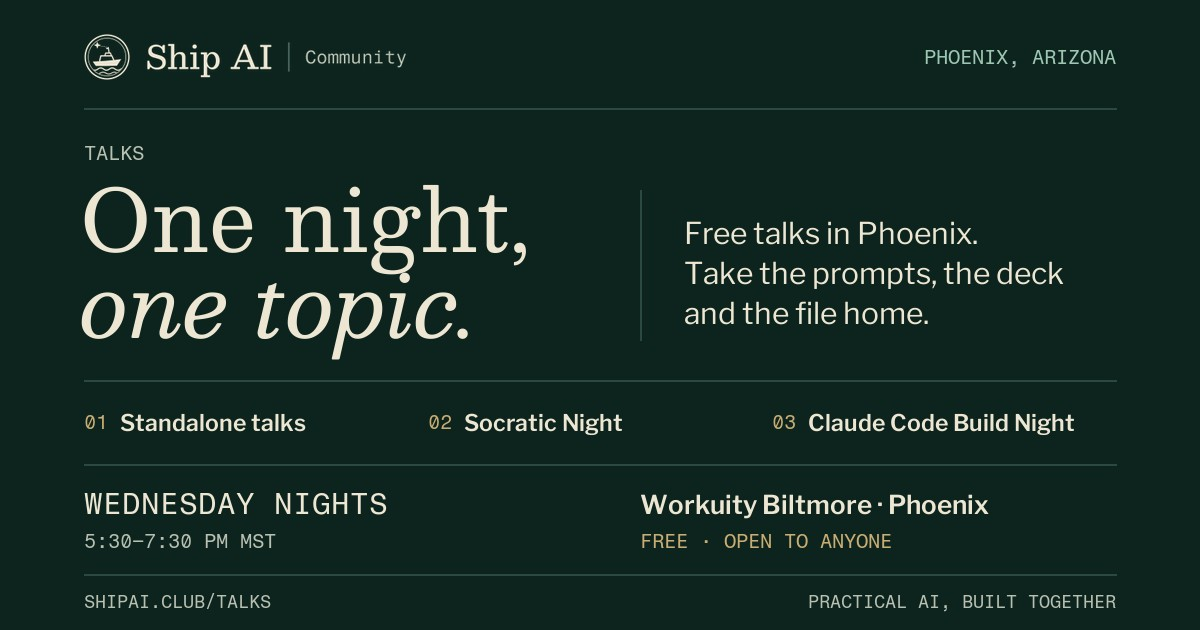
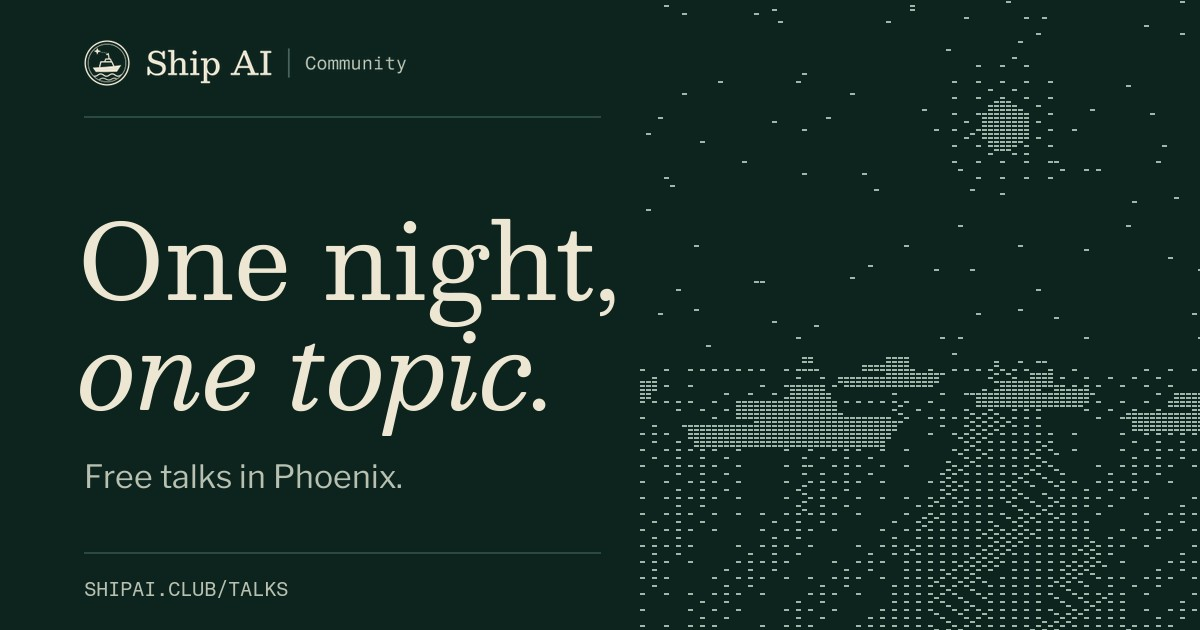
Talks social image: title, one line and the URL, with the harbor dither art on the right

diff --git a/scripts/og/render_talks_og.py b/scripts/og/render_talks_og.py
@@ -10,6 +10,86 @@ MONO = 'fragment-mono-400.ttf'; SERIF = 'besley-400.ttf'; SERIF_I = 'besley-ital
 SANS = 'libre-franklin-400.ttf'; SANS_B = 'libre-franklin-600.ttf'
 W, H, M = 1200, 630, 84
 
+import math
+
+BAYER = [[(v + 0.5) / 16 for v in r] for r in [[0, 8, 2, 10], [12, 4, 14, 6], [3, 11, 1, 9], [15, 7, 13, 5]]]
+ART = '#9DB8AB'
+HULL = [(0, 4), (214, -6), (236, 0), (214, 28), (16, 28)]
+HOUSE = [(56, -2), (62, -24), (158, -24), (176, -4)]
+WHEEL = [(110, -24), (116, -40), (152, -40), (160, -24)]
+
+
+def hsh(x, y):
+    s = math.sin(x * 127.1 + y * 311.7) * 43758.5453
+    return s - math.floor(s)
+
+
+def clamp(v):
+    return 0 if v < 0 else 1 if v > 1 else v
+
+
+def in_poly(x, y, poly):
+    c = False
+    j = len(poly) - 1
+    for i in range(len(poly)):
+        xi, yi = poly[i]; xj, yj = poly[j]
+        if (yi > y) != (yj > y) and x < (xj - xi) * (y - yi) / (yj - yi) + xi:
+            c = not c
+        j = i
+    return c
+
+
+def vessel(x, y, ox, oy, s):
+    X = (x - ox) / s; Y = (y - oy) / s
+    if X < -6 or X > 250 or Y < -70 or Y > 34:
+        return False
+    return in_poly(X, Y, HULL) or in_poly(X, Y, HOUSE) or in_poly(X, Y, WHEEL) or (132 < X < 136 and -64 < Y < -40) or (122 < X < 146 and -58 < Y < -55)
+
+
+def harbor(x, y, t, H):
+    hz = H * 0.58; mx = 900; my = H * 0.2
+    boats = [(120, hz + 46, 0.85), (330, hz + 22, 0.7), (520, hz + 66, 1.1), (700, hz + 12, 0.55), (860, hz + 30, 0.62), (1040, hz + 54, 0.95)]
+    for ox, oy, s in boats:
+        if vessel(x, y, ox, oy + math.sin(t * 0.8 + ox) * 1.5, s):
+            return 1
+    for ox, oy, s in boats:
+        if math.hypot(x - (ox + 134 * s), y - (oy - 66 * s)) < 5 * s:
+            return 1
+    if y < hz:
+        md = math.hypot(x - mx, y - my)
+        if md < 30:
+            return 1
+        h = hsh(math.floor(x / 6), math.floor(y / 4))
+        if h > 0.987:
+            return 0.6 + 0.4 * math.sin(t * 1.8 + h * 60)
+        return 0.18 - (md / 90) * 0.16 if md < 90 else 0.02
+    dz = (y - hz) / (H - hz)
+    d = 0.1 + 0.08 * math.sin(x * 0.02 * (1 + dz * 2) + t * 0.8 + 6 / (dz + 0.1))
+    if abs(x - mx) < 16 + dz * 140:
+        d += 0.35 * (0.6 + 0.4 * math.sin(y * 0.7 + t * 3 + x * 0.05))
+    for ox, oy, s in boats:
+        lx = ox + 134 * s
+        if abs(x - lx) < 4 and oy + 30 * s < y < oy + 30 * s + 70 * s:
+            d += 0.6 * (0.5 + 0.5 * math.sin(y * 0.6 + t * 2.5))
+    return clamp(d)
+
+
+def draw_art(d, x0, y0, x1, y1, sx0=430, sx1=1160, t=2.0, cw=6, ch=4):
+    w = x1 - x0; h = y1 - y0
+    k = (sx1 - sx0) / w
+    H = h * k
+    j = 0
+    for y in range(0, h, ch):
+        i = 0
+        for x in range(0, w, cw):
+            v = harbor(sx0 + (x + cw / 2) * k, (y + ch / 2) * k, t, H)
+            if v > BAYER[j & 3][i & 3]:
+                d.rectangle((x0 + x, y0 + y + 1, x0 + x + cw - 2, y0 + y + ch - 2), fill=ART)
+            i += 1
+        j += 1
+
+
+
 
 def font(name, size):
     return ImageFont.truetype(str(F / name), size)
@@ -26,7 +106,7 @@ def txt(d, xy, text, size, color=BONE, kind=MONO, anchor='ls', limit=None):
 
 
 def rule(d, y):
-    d.line((M, y, W - M, y), fill=RULE, width=2)
+    d.line((M, y, 600, y), fill=RULE, width=2)
 
 
 def fit_h(im, h):
@@ -38,34 +118,16 @@ im = Image.new('RGB', (W, H), BG)
 d = ImageDraw.Draw(im)
 
 ship = fit_h(Image.open(ASSETS / 'ship-ai-lockup.png').convert('RGBA'), 46)
-im.paste(ship, (M, 34), ship)
-txt(d, (W - M, 57), 'PHOENIX, ARIZONA', 20, MINT, anchor='rm')
-rule(d, 108)
+im.paste(ship, (M, 40), ship)
+rule(d, 116)
+draw_art(d, 640, 0, W, H, sx0=470, sx1=1130)
 
-txt(d, (M, 160), 'TALKS', 20, SAGE)
-txt(d, (M - 4, 252), 'One night,', 86, BONE, SERIF, limit=600)
-txt(d, (M - 4, 338), 'one topic.', 86, BONE, SERIF_I, limit=600)
-d.line((640, 190, 640, 340), fill=RULE, width=2)
-txt(d, (684, 244), 'Free talks in Phoenix.', 30, BONE, SANS, limit=W - M)
-txt(d, (684, 284), 'Take the prompts, the deck', 30, BONE, SANS, limit=W - M)
-txt(d, (684, 324), 'and the file home.', 30, BONE, SANS, limit=W - M)
-rule(d, 380)
+txt(d, (M - 6, 300), 'One night,', 104, BONE, SERIF, limit=620)
+txt(d, (M - 6, 410), 'one topic.', 104, BONE, SERIF_I, limit=620)
+txt(d, (M, 488), 'Free talks in Phoenix.', 32, SAGE, SANS, limit=W - M)
 
-items = [('01', 'Standalone talks'), ('02', 'Socratic Night'), ('03', 'Claude Code Build Night')]
-col = (W - 2 * M) / 3
-for i, (n, label) in enumerate(items):
-    x = M + round(i * col)
-    nw = txt(d, (x, 422), n, 20, BRASS, anchor='lm')
-    txt(d, (x + nw + 12, 422), label, 23, BONE, SANS_B, anchor='lm', limit=x + col - 8)
-rule(d, 464)
-
-txt(d, (M, 514), 'WEDNESDAY NIGHTS', 30, BONE, limit=600)
-txt(d, (M, 548), '5:30–7:30 PM MST', 20, SAGE, limit=600)
-txt(d, (640, 514), 'Workuity Biltmore · Phoenix', 26, BONE, SANS_B, limit=W - M)
-txt(d, (640, 548), 'FREE · OPEN TO ANYONE', 20, BRASS, limit=W - M)
-rule(d, 574)
-txt(d, (M, 608), 'SHIPAI.CLUB/TALKS', 18, SAGE)
-txt(d, (W - M, 608), 'PRACTICAL AI, BUILT TOGETHER', 18, SAGE, anchor='rs', limit=W)
+rule(d, 552)
+txt(d, (M, 596), 'SHIPAI.CLUB/TALKS', 20, SAGE)
 
 im.save(OUT, quality=90)
 print(OUT)
